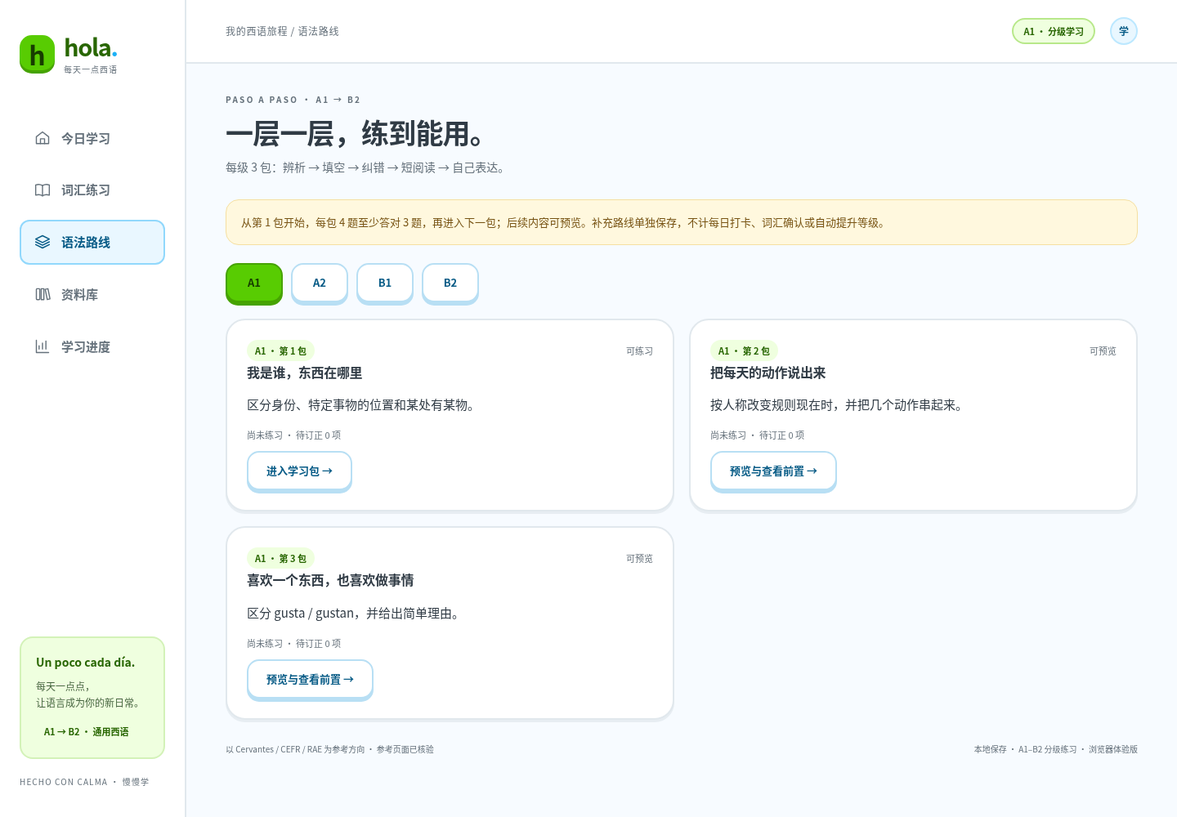
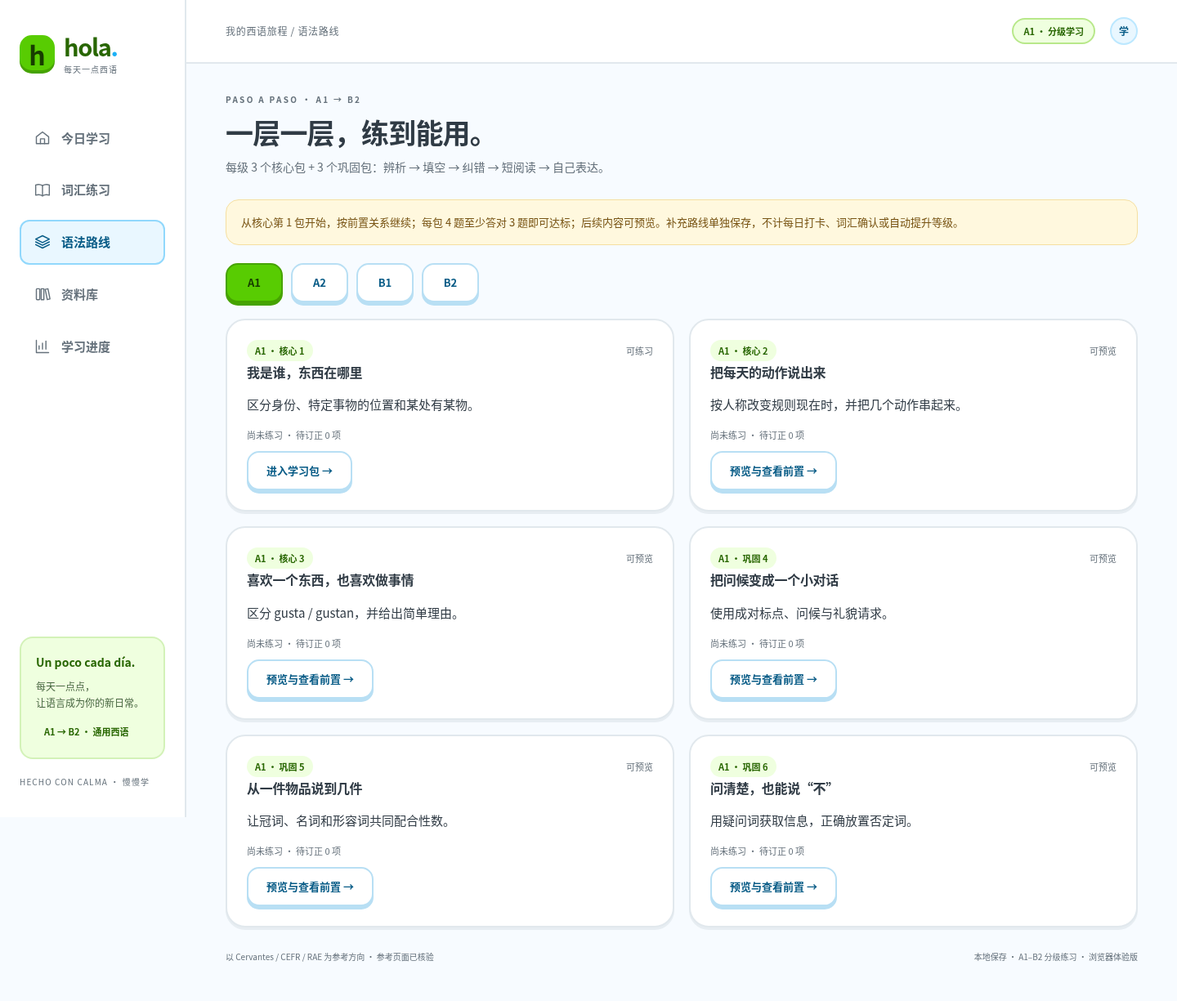
Expand every practice level with compatible consolidation branches

diff --git a/miniprogram/data/drill-extension.js b/miniprogram/data/drill-extension.js
@@ -1,0 +1,99 @@
+// 每级的巩固分支；显式前置关系保护首批 12 包的旧进度。
+module.exports = ({ choice, text }) => [
+  {
+    id:'a1-greetings',level:'A1',previousId:'a1-place',title:'把问候变成一个小对话',lessonIds:['g1'],goal:'使用成对标点、问候与礼貌请求。',recycled:['soy','café','gracias'],
+    rules:['直接问句通常使用 ¿ 和 ?：¿Cómo estás?。','请别人帮忙时可加入 por favor；道谢后常回应 de nada。','buenos días / buenas tardes / buenas noches 随时间与地区作息选择，不规定全球统一钟点。'],
+    examples:[['¡Hola! Un café, por favor.','你好！请来一杯咖啡。'],['Gracias. — De nada.','谢谢。——不客气。']],
+    reading:'Por la mañana Ana entra en una cafetería. Dice: «Buenos días. Un café, por favor». Después dice «Gracias». El camarero responde: «De nada».',glossary:'entra：走进；cafetería：咖啡馆；camarero：服务员；responde：回答。',
+    questions:[choice('早晨初次见面，常见问候是：',['Buenos días.','Buenas noches.','De nada.'],0,'Buenos días 是常见早晨问候；具体分界随作息与地区变化。'),text('只填礼貌短语：Un café, ___.','por favor','请求中加入 por favor。'),{...text('只补全成对的问号，写出整句：Cómo estás?','¿Cómo estás?','普通直接疑问句需要开头 ¿ 与结尾 ?；此题明确检查标点。'),preservePunctuation:true},choice('根据短文，服务员怎样回应道谢？',['De nada.','Buenos días.','Un café.'],0,'El camarero responde: De nada。')],
+    output:{prompt:'写 4 句咖啡馆小对话：问候、请求、道谢、回应。',starters:['Buenos días…','Un…, por favor.','Gracias.','De nada.'],rubric:['问候是否符合所设场景？','请求是否加入礼貌表达？','问句与感叹句标点是否成对？'],model:'Buenos días. Un café, por favor. Gracias. De nada.'}
+  },
+  {
+    id:'a1-agreement',level:'A1',previousId:'a1-greetings',title:'从一件物品说到几件',lessonIds:['g3'],goal:'让冠词、名词和形容词共同配合性数。',recycled:['libro','mesa','pequeño'],
+    rules:['la mesa pequeña → las mesas pequeñas，冠词、名词、形容词一起变复数。','libro 为阳性；agua 为阴性，单数紧接名词前使用 el，但形容词仍是阴性。','常见元音结尾词加 -s，常见辅音结尾词加 -es：ciudad → ciudades。'],
+    examples:[['Los libros son pequeños.','这些书很小。'],['El agua está fría.','水是冷的。']],
+    reading:'En mi casa hay una mesa pequeña y dos libros. Los libros son pequeños. Cerca de la mesa hay dos sillas. Las sillas son grandes.',glossary:'silla：椅子，阴性；cerca de：在……附近；grandes：大的，复数。',
+    questions:[choice('选择正确的阴性复数：',['las mesas pequeñas','los mesas pequeños','las mesa pequeñas'],0,'三个词都与阴性复数配合。'),text('只填 ciudad 的复数：Hay dos ___ pequeñas.','ciudades','ciudad 是阴性，辅音结尾加 -es：ciudades。'),text('只改冠词与形容词，写出整句：Las libros son pequeñas.','Los libros son pequeños.','libros 为阳性复数，用 los、pequeños。'),choice('根据短文，哪些物品很大？',['Las sillas.','Los libros.','La mesa.'],0,'短文明确说明 Las sillas son grandes。')],
+    output:{prompt:'写 3 句描述一个房间：一种单数物品、两种复数物品，加入大小形容词。',starters:['Hay una / un…','Los… son…','Las… son…'],rubric:['冠词与名词性数是否配合？','形容词是否配合名词？','是否准确区分一个与多个？'],model:'Hay una mesa pequeña. Los libros son pequeños. Las sillas son grandes.'}
+  },
+  {
+    id:'a1-questions',level:'A1',previousId:'a1-agreement',title:'问清楚，也能说“不”',lessonIds:['g6'],goal:'用疑问词获取信息，正确放置否定词。',recycled:['estudiar','casa','libro'],
+    rules:['询问地点用 dónde，询问原因用 por qué；保留书写重音。','回答原因常用 porque；它与疑问的 por qué 不同。','no 放在变位动词前：No estudio hoy。'],
+    examples:[['¿Dónde estudias? — Estudio en casa.','你在哪里学习？——我在家学习。'],['¿Por qué lees? — Porque me gusta.','你为什么阅读？——因为我喜欢。']],
+    reading:'Luis estudia en casa. Hoy no trabaja porque es domingo. Ana pregunta: «¿Qué lees?». Luis responde: «Leo un libro de español».',glossary:'domingo：周日；pregunta：她问；qué：什么；de español：关于西语的。',
+    questions:[choice('询问学习地点：¿___ estudias?',['Dónde','Quién','Cuándo'],0,'地点用 dónde；quién 问人，cuándo 问时间。'),text('只填疑问短语：¿___ estudias español?（为什么）','Por qué','por qué 分写，qué 带重音；回答原因通常用 porque。'),text('只改 no 的位置，写出整句：Hoy estudio no en casa.','Hoy no estudio en casa.','普通否定句中 no 放在变位动词 estudio 前。'),choice('根据短文，Luis 今天为什么不工作？',['Porque es domingo.','Porque Ana trabaja.','Porque no tiene un libro.'],0,'短文给出的原因是 es domingo。')],
+    output:{prompt:'写一个 4 句对话：一个地点问题及回答，再写一个原因问题及回答；回答中可加入否定。',starters:['¿Dónde…?','… en…','¿Por qué…?','Porque…'],rubric:['疑问词与想获取的信息是否对应？','por qué / porque 是否区分？','否定词和重音是否准确？'],model:'¿Dónde estudias? Estudio en casa. ¿Por qué no trabajas hoy? Porque es domingo.'}
+  },
+  {
+    id:'a2-routine',level:'A2',previousId:'a2-plans',title:'把起床到睡觉连成一天',lessonIds:['g10'],goal:'配合代词式动词的人称，并交代动作顺序。',recycled:['estudio','después','casa'],
+    rules:['levantarse：me levanto、te levantas、se levanta、nos levantamos。','acostarse 的部分现在时人称发生 o → ue：me acuesto；nos acostamos 不变。','antes de / después de 后接不定式：Después de comer, estudio。'],
+    examples:[['Me levanto a las siete.','我七点起床。'],['Después de comer, estudio en casa.','吃饭后我在家学习。']],
+    reading:'Ana se levanta a las siete. Después de ducharse, prepara el desayuno. Trabaja por la mañana. Por la noche lee y se acuesta a las once.',glossary:'ducharse：淋浴；prepara：准备；se acuesta：她上床睡觉；once：十一。',
+    questions:[choice('Yo ___ levanto temprano.',['me','se','te'],0,'yo 对应 me，动词为 levanto。'),text('只填 acostarse 的 yo 形式，包括代词：Yo ___ a las once.','me acuesto','yo 使用 me acuesto，保留代词并发生 o → ue。'),text('只改 comer 的形式，写出整句：Después de como, estudio.','Después de comer, estudio.','介词 de 后用不定式 comer。'),choice('根据短文，Ana 什么时候阅读？',['Por la noche.','Después de acostarse siempre.','A las siete de la mañana.'],0,'短文说 Por la noche lee。')],
+    output:{prompt:'用 4–5 句按顺序写自己的作息，包括起床、一个 después de 结构和睡觉。',starters:['Me levanto…','Después de…','Por la tarde…','Me acuesto…'],rubric:['代词与动词是否都配合主语？','de 后是否使用不定式？','时间顺序是否容易跟随？'],model:'Me levanto a las siete. Después de comer, estudio español. Por la tarde trabajo. Por la noche leo. Me acuesto a las once.'}
+  },
+  {
+    id:'a2-help',level:'A2',previousId:'a2-routine',title:'说明不适与需要',lessonIds:['g11'],goal:'用 doler 配合身体部位，并说明必要行动。',recycled:['necesitar','porque','descansar'],
+    rules:['me duele + 单数部位：Me duele la cabeza；me duelen + 复数部位：Me duelen los pies。','tener que + 不定式表示需要或义务：Tengo que descansar。','语言例句不是诊断或治疗建议；只练描述不适、提出需要。'],
+    examples:[['Me duele la cabeza.','我头痛。'],['Necesito pedir una cita.','我需要预约。']],
+    reading:'Luis tiene dolor de garganta. Llama al centro de salud para pedir una cita. Dice que necesita hablar con una médica. La persona que atiende le pregunta su nombre.',glossary:'garganta：喉咙；centro de salud：医疗中心；atiende：接待；cita：预约。',
+    questions:[choice('Me ___ los pies.',['duelen','duele','dolor'],0,'pies 是复数语法主语，使用 duelen。'),text('只填 doler 的对应形式：Me ___ la cabeza.','duele','cabeza 是单数，使用 duele。'),text('只改 descansar 的形式，写出整句：Tengo que descanso en casa.','Tengo que descansar en casa.','tener que 后接不定式 descansar。'),choice('根据短文，Luis 打电话的目的是什么？',['Pedir una cita.','Comprar una camisa.','Anunciar un examen.'],0,'短文明确说 para pedir una cita。')],
+    output:{prompt:'写一个 4 句预约对话：介绍自己、描述一种不适、说明需要、礼貌请求预约。可用虚构人物。',starters:['Soy…','Me duele / Me duelen…','Necesito…','¿Puedes…, por favor?'],rubric:['duele / duelen 是否与部位配合？','需要与请求是否说清楚？','是否避免把语言例句当成医疗建议？'],model:'Soy Luis. Me duele la garganta. Necesito hablar con una médica. ¿Puedes ayudarme a pedir una cita, por favor?'}
+  },
+  {
+    id:'a2-travel',level:'A2',previousId:'a2-help',title:'交代旅行前已经完成的事',lessonIds:['g12'],goal:'使用 haber + 过去分词说明经历或与现在有关的完成事件。',recycled:['comprar','visitar','billete'],
+    rules:['haber 现在时：he、has、ha、hemos、habéis、han，加过去分词。','规则分词：hablado、comido、vivido；常见不规则：escrito、visto、hecho。','复合过去时与简单过去时的使用受地区和语境影响；本包明确要求所给复合过去形式。'],
+    examples:[['He comprado un billete.','我已买了一张票。'],['Hemos escrito al hotel.','我们已给酒店写信。']],
+    reading:'Ana y Luis han reservado una habitación. Ana ha comprado los billetes y Luis ha escrito al hotel. Todavía no han preparado las maletas. Van a salir mañana.',glossary:'todavía no：还没有；maletas：行李箱；han reservado：他们已预订；van a salir：将出发。',
+    questions:[choice('Yo ___ reservado una habitación.',['he','ha','han'],0,'yo 对应 haber 的 he。'),text('只填 escribir 的过去分词：He ___ al hotel.','escrito','escribir 的不规则过去分词是 escrito。'),text('只改 llegar 的形式，写出整句：Hemos llegar al hotel.','Hemos llegado al hotel.','haber 后必须使用过去分词 llegado。'),choice('根据短文，他们哪件事还没有完成？',['Preparar las maletas.','Reservar una habitación.','Comprar los billetes.'],0,'Todavía no han preparado las maletas 明确表示尚未完成。')],
+    output:{prompt:'用 4 句写出行准备：两件已完成的事、一件未完成的事和出发安排。',starters:['He / Hemos…','También…','Todavía no…','Vamos a…'],rubric:['haber 与主语是否配合？','分词是否准确，尤其不规则形式？','是否区分已完成、未完成与计划？'],model:'Hemos reservado una habitación. He comprado los billetes. Todavía no hemos preparado las maletas. Vamos a salir mañana.'}
+  },
+  {
+    id:'b1-relative',level:'B1',previousId:'b1-opinion',title:'用关系从句补充信息',lessonIds:['g22'],goal:'用 que 与 donde 指清楚所谈对象，减少重复。',recycled:['curso','aprender','ciudad'],
+    rules:['que 可指代人或事物：El curso que hago es útil。','donde 用于地点：La ciudad donde vivo es tranquila。','先明确先行词，再补充从句；本包练已明确存在的对象。'],
+    examples:[['La profesora que me ayuda habla despacio.','帮助我的老师说得很慢。'],['La escuela donde estudio está cerca.','我学习的学校在附近。']],
+    reading:'Marta estudia en una escuela que ofrece cursos por la tarde. La profesora que la ayuda prepara ejercicios claros. La ciudad donde vive Marta tiene una biblioteca grande.',glossary:'ofrece：提供；claros：清楚的；biblioteca：图书馆；la ayuda：帮助她。',
+    questions:[choice('地点：La escuela ___ estudio está cerca.',['donde','que','quién'],0,'本题表示在学校学习，用地点关系词 donde。'),text('只填关系词：La profesora ___ me ayuda es amable.','que','que 指代先行词 profesora，在从句中作主语。'),text('用 que 合并成一句：Tengo un curso. El curso ofrece prácticas.','Tengo un curso que ofrece prácticas.','保留已存在的课程，用 que 接 ofrece 的信息，本句使用直陈式 ofrece。'),choice('根据短文，学校什么时候提供课程？',['Por la tarde.','Solo por la mañana.','Nunca.'],0,'第一句说 ofrece cursos por la tarde。')],
+    output:{prompt:'用 5 句介绍学校或城市：至少使用一次 que 和一次 donde，再给出自己的评价。',starters:['Estudio en…','La escuela que…','La ciudad donde…','Me gusta… porque…'],rubric:['关系词是否对应人 / 物或地点？','每个关系从句的先行词是否清楚？','是否减少了重复，而没有丢失信息？'],model:'Estudio en una escuela pequeña. La profesora que me ayuda habla despacio. La escuela ofrece cursos por la tarde. La ciudad donde vivo tiene una biblioteca. Me gusta estudiar allí porque puedo leer.'}
+  },
+  {
+    id:'b1-wishes',level:'B1',previousId:'b1-relative',title:'表达感受与希望',lessonIds:['g23'],goal:'正确使用情感结构和面向另一主语的希望。',recycled:['aconsejar','confianza','amiga'],
+    rules:['Me alegro de que + 虚拟式：Me alegro de que estés aquí，不能省掉 de。','对另一主语表达希望：Espero que llegues pronto。','同一主语可用不定式：Espero llegar pronto；不要机械地所有 espero 后都加 que。'],
+    examples:[['Me alegro de que estés aquí.','我很高兴你在这里。'],['Espero llegar pronto.','我希望自己早点到。']],
+    reading:'Ana escribe a su amiga: «Me alegro de que estés en nuestra ciudad. Espero que podamos estudiar juntas. Yo espero llegar a la biblioteca a las cinco». La amiga responde que también quiere estudiar.',glossary:'podamos：我们能够，虚拟式；juntas：一起，女性复数；a las cinco：五点。',
+    questions:[choice('Me alegro ___ que estés aquí.',['de','a','por'],0,'alegrarse de que 保留介词 de。'),text('只填 estar 的 tú 虚拟式：Me alegro de que ___ aquí.','estés','本情感从句用 estés，保留 é。'),text('只改希望结构，写出整句：Yo espero que llegar pronto.','Yo espero llegar pronto.','本题希望到达的人和主句主语都是 yo，用不定式 llegar。'),choice('根据短文，Ana 希望和朋友做什么？',['Estudiar juntas.','Salir de la ciudad enseguida.','Cancelar la visita a la biblioteca.'],0,'Espero que podamos estudiar juntas 说明希望一起学习。')],
+    output:{prompt:'写 5 句给同学的短消息：一项感受、对对方或双方的希望、自己的安排和一个具体约定。',starters:['Me alegro de que…','Espero que…','Yo espero…','Podemos…','¿Quedamos…?'],rubric:['de que 结构是否完整？','希望从句的主语和语气是否配合？','自己的希望能否用不定式清楚表达？'],model:'Me alegro de que estés aquí. Espero que podamos estudiar juntos. Yo espero llegar a las cinco. Podemos practicar español en la biblioteca. ¿Quedamos allí?'}
+  },
+  {
+    id:'b1-anterior',level:'B1',previousId:'b1-wishes',title:'讲清两件过去事情的先后',lessonIds:['g24'],goal:'使用过去完成时说明一个过去参照点之前的事件。',recycled:['viaje','cuando','experiencia'],
+    rules:['había / habías / habíamos / habían + 过去分词，表示相对于过去参照点的更早事件。','Cuando llegué, el tren ya había salido：离开早于到达。','过去完成时不是“非常久以前”的专用表达；关键是相对先后。'],
+    examples:[['Cuando llegué, el tren ya había salido.','我到达时，火车已经离开。'],['Expliqué que había perdido mi maleta.','我解释说此前丢了行李箱。']],
+    reading:'Cuando Luis llegó a la estación, el tren ya había salido. Había comprado el billete el día anterior. Después llamó a Ana y explicó lo que había pasado. Ana le ayudó a buscar otro tren.',glossary:'estación：车站；el día anterior：前一天；había pasado：此前发生了；buscar：寻找。',
+    questions:[choice('离开早于我到达：Cuando llegué, el tren ya ___ salido.',['había','ha','he'],0,'过去参照点 llegué 之前的事件，使用 había salido。'),text('只填 haber 的 nosotros 未完成过去时：Ya ___ comprado los billetes cuando llegamos.','habíamos','nosotros 对应 habíamos，重音不可省略。'),text('只改 salir 的形式，写出整句：El tren había salir antes de mi llegada.','El tren había salido antes de mi llegada.','haber 后接过去分词 salido。'),choice('根据短文，哪件事发生得最早？',['Comprar el billete.','Llamar a Ana.','Buscar otro tren con Ana.'],0,'票在前一天已经买好，早于到站与之后的电话。')],
+    output:{prompt:'用 5–6 句写一次误会或迟到：过去参照点、此前事件、发现问题、解释与解决。',starters:['Cuando llegué,…','Ya había…','Después…','Expliqué que…','Al final…'],rubric:['更早事件是否有明确的过去参照点？','haber 与分词是否构成完整结构？','解决过程是否与前面的事件衔接？'],model:'Cuando llegué, el tren ya había salido. Había comprado el billete el día anterior. Después llamé a una amiga. Expliqué que había llegado tarde. Ella me ayudó a buscar otro tren. Al final pude continuar el viaje.'}
+  },
+  {
+    id:'b2-specific',level:'B2',previousId:'b2-report',title:'区分已有对象与尚未找到的对象',lessonIds:['g25'],goal:'根据特指、寻找与否定存在的语境选择关系从句语气。',recycled:['curso','que','ofrecer'],
+    rules:['明确已有对象：Tengo un curso que ofrece prácticas。','寻找但尚未确定对象：Busco un curso que ofrezca prácticas。','No hay nadie que pueda ayudar 是典型否定存在语境；选择语气需看整段意思。'],
+    examples:[['Busco una profesora que tenga experiencia.','我在找一位有经验的老师，尚未确定对象。'],['Tengo una profesora que tiene experiencia.','我有一位经验丰富的老师。']],
+    reading:'Marta ya conoce un curso que ofrece prácticas. Su hermano todavía busca uno que tenga horario nocturno. No ha encontrado ninguno que cumpla sus requisitos. Marta le propone preguntar en otra escuela.',glossary:'nocturno：夜间的；requisitos：要求；cumpla：符合，虚拟式；ninguno：任何一个都没有。',
+    questions:[choice('尚未找到特定课程：Busco un curso que ___ prácticas.',['ofrezca','ofrece','ofrecer'],0,'在本题未确定的寻找语境中使用 ofrezca。'),text('只填 tener：Tengo una profesora que ___ experiencia.（明确已有）','tiene','本题作事实断言，明确已有老师，用 tiene。'),text('在“没有人能帮助”的语境，只改 poder：No hay nadie que puede ayudar.','No hay nadie que pueda ayudar.','典型否定存在从句用虚拟式 pueda。'),choice('根据短文，谁还没有找到符合要求的课程？',['El hermano de Marta.','Marta, que no conoce ningún curso.','La profesora de Marta.'],0,'hermano 仍在寻找；Marta 已认识一个提供实践的课程。')],
+    output:{prompt:'用 6 句比较一种已有资源与一种正在寻找的资源：现有优点、寻找条件、缺口和可执行办法。',starters:['Ya tengo… que…','Sin embargo, busco… que…','Necesito…','Todavía no…','Por eso…'],rubric:['是否明确区分已有与未确定对象？','关系从句语气是否符合语境？','需求和行动是否相互对应？'],model:'Tengo un curso que ofrece prácticas. Sin embargo, busco otro que tenga horario nocturno. Necesito estudiar después del trabajo. Todavía no he encontrado uno que cumpla mis requisitos. Por eso voy a preguntar en otra escuela. También compararé los horarios antes de decidir.'}
+  },
+  {
+    id:'b2-passive',level:'B2',previousId:'b2-specific',title:'把结果与信息处理过程说清楚',lessonIds:['g28'],goal:'区分 ser 被动、被动 se 与无人称 se。',recycled:['informe','resultados','según'],
+    rules:['ser + 过去分词，分词与主语配合：Las muestras fueron analizadas。','被动 se 的动词与主语配合：Se publicaron los resultados。','无人称 se + a + 人，典型单数：Se entrevistó a los participantes。不能只看到复数人名就把动词改复数。'],
+    examples:[['Los resultados fueron publicados.','结果被公布了。'],['Se entrevistó a los participantes.','对参与者进行了访谈。']],
+    reading:'Se entrevistó a veinte participantes. Después se analizaron las respuestas. Los resultados fueron publicados en un informe. El documento explica el método, pero no incluye los nombres de los participantes.',glossary:'entrevistó：访谈了；respuestas：回答；método：方法；incluye：包含。',
+    questions:[choice('被动 se：Se ___ los resultados ayer.',['publicaron','publicó','publicar'],0,'los resultados 为复数主语，被动 se 用 publicaron。'),text('只填 analizar 的配合分词：Las muestras fueron ___.','analizadas','阴性复数主语 muestras，分词 analizadas。'),text('按本题标准无人称结构，只改动词：Se entrevistaron a los participantes.','Se entrevistó a los participantes.','含 a 的人宾语无人称结构，本题要求第三人称单数 entrevistó。'),choice('根据短文，报告没有包含什么？',['Los nombres de los participantes.','El método.','Los resultados.'],0,'最后一句明确没有参与者姓名。')],
+    output:{prompt:'写 6 句虚构项目摘要：说明信息如何收集、处理、发布，列出结论与一个限制。',starters:['Se entrevistó a…','Se analizaron…','Los resultados fueron…','El informe indica…','Sin embargo,…'],rubric:['是否区分被动主语与人宾语？','分词和动词是否与相应主语配合？','过程、结论与限制是否分别说清楚？'],model:'Se entrevistó a diez participantes. Después se analizaron sus respuestas. Los resultados fueron publicados en un informe. El documento explica el método. Sin embargo, la muestra es pequeña. Por lo tanto, necesitamos más datos antes de generalizar.'}
+  },
+  {
+    id:'b2-evaluation',level:'B2',previousId:'b2-passive',title:'用评价与证据收束提案',lessonIds:['g30','g31','g32'],goal:'提出优先事项，区分理由与结论，并回应限制。',recycled:['aunque','por lo tanto','proyecto'],
+    rules:['lo + 形容词可表达抽象性质：Lo importante es escuchar。','评价另一主语的从句：Es importante que haya respeto。','por lo tanto 应引出有依据的结论；sin embargo 引出限制或转折，不等于结论已经得到证明。'],
+    examples:[['Lo importante es evaluar los resultados.','重要的是评估结果。'],['Es importante que todos participen.','让所有人参与很重要。']],
+    reading:'El equipo propone abrir una biblioteca. Lo importante es que el barrio pueda usarla. El proyecto requiere dinero; sin embargo, puede empezar con un espacio pequeño. Por lo tanto, el equipo recomienda una prueba y una evaluación antes de ampliarlo.',glossary:'abrir：开设；pueda usarla：能够使用它；ampliarlo：扩大它；espacio：空间。',
+    questions:[choice('表达抽象优先事项：___ importante es escuchar.',['Lo','El','La'],0,'lo + 形容词名词化抽象性质。'),text('只填 haber 的现在虚拟式：Es importante que ___ respeto.','haya','评价从句使用 haya；此处 haber 表存在，不随名词数量变。'),text('只改参加的动词，写出整句：Es importante que todos participa.','Es importante que todos participen.','评价从句用虚拟式，todos 对应复数 participen。'),choice('根据短文，团队的建议是什么？',['Probar y evaluar antes de ampliar.','Ampliar sin evaluar.', 'Afirmar que no hace falta dinero.'],0,'建议先试行和评估，再扩大；仍承认费用限制。')],
+    output:{prompt:'写 7–8 句项目提案：需求、优先事项、两条理由、一个限制、试行方案、评估和结论。',starters:['Proponemos…','Lo importante es…','Es importante que…','Además,…','Sin embargo,…','Por lo tanto,…'],rubric:['评价结构是否完整并配合语气？','结论是否由真实或明确标为假设的理由支撑？','是否给出可操作的试行和评估办法？'],model:'Proponemos abrir una biblioteca pequeña. Lo importante es escuchar al barrio. Es importante que todos participen. Además, necesitamos materiales útiles. Sin embargo, el presupuesto es limitado. Podemos empezar con una prueba de un mes. Evaluaremos el uso y las opiniones. Por lo tanto, ampliaremos el proyecto solo si los resultados lo justifican.'}
+  }
+];

diff --git a/web/app.js b/web/app.js
@@ -96,7 +96,7 @@
   }
   function drillsPage() {
     const packs=L.drillProgress(state).filter(p=>p.level===drillLevel);
-    return heading('PASO A PASO · A1 → B2','一层一层，练到能用。','每级 3 包：辨析 → 填空 → 纠错 → 短阅读 → 自己表达。')+`<div class="notice">从第 1 包开始，每包 4 题至少答对 3 题，再进入下一包；后续内容可预览。补充路线单独保存，不计每日打卡、词汇确认或自动提升等级。</div><div class="level-tabs" role="group" aria-label="分级练习等级">${['A1','A2','B1','B2'].map(level=>btn(level,'drills-level',`data-level="${level}" aria-pressed="${level===drillLevel}"`,level===drillLevel?'':'secondary')).join('')}</div><div class="lesson-grid">${packs.map(p=>`<article class="card drill-card ${p.unlocked?'':'locked'}"><div class="card-head">${pill(`${p.level} · 第 ${p.number} 包`)}<span class="tiny">${p.unlocked?'可练习':'可预览'}</span></div><h2>${esc(p.title)}</h2><p>${esc(p.goal)}</p><p class="tiny">${p.bestScore===null?'尚未练习':`最佳正确率 ${p.bestScore}%`} · 待订正 ${p.mistakes.length} 项</p>${p.mistakes.map(q=>`<p class="tiny">${esc(q.title)} · 上次：${esc(q.previousAnswer)}</p>`).join('')}${btn(p.unlocked?'进入学习包 →':'预览与查看前置 →','drill',`data-id="${p.id}"`,'secondary')}</article>`).join('')}</div>`;
+    return heading('PASO A PASO · A1 → B2','一层一层，练到能用。','每级 3 个核心包 + 3 个巩固包：辨析 → 填空 → 纠错 → 短阅读 → 自己表达。')+`<div class="notice">从核心第 1 包开始，按前置关系继续；每包 4 题至少答对 3 题即可达标；后续内容可预览。补充路线单独保存，不计每日打卡、词汇确认或自动提升等级。</div><div class="level-tabs" role="group" aria-label="分级练习等级">${['A1','A2','B1','B2'].map(level=>btn(level,'drills-level',`data-level="${level}" aria-pressed="${level===drillLevel}"`,level===drillLevel?'':'secondary')).join('')}</div><div class="lesson-grid">${packs.map(p=>`<article class="card drill-card ${p.unlocked?'':'locked'}"><div class="card-head">${pill(`${p.level} · ${p.branch==='core'?'核心':'巩固'} ${p.levelNumber}`)}<span class="tiny">${p.unlocked?'可练习':'可预览'}</span></div><h2>${esc(p.title)}</h2><p>${esc(p.goal)}</p><p class="tiny">${p.bestScore===null?'尚未练习':`最佳正确率 ${p.bestScore}%`} · 待订正 ${p.mistakes.length} 项</p>${p.mistakes.map(q=>`<p class="tiny">${esc(q.title)} · 上次：${esc(q.previousAnswer)}</p>`).join('')}${btn(p.unlocked?'进入学习包 →':'预览与查看前置 →','drill',`data-id="${p.id}"`,'secondary')}</article>`).join('')}</div>`;
   }
   function drillOutput(p, unlocked) {
     const e=drillEditor;
@@ -107,9 +107,9 @@
     if(!p)return '<div class="card empty">没有找到练习包。<a href="#drills">返回分级练习</a></div>';
     if(!drillEditor||drillEditor.id!==id){const d=state.drillDrafts[id];drillEditor={id,text:d?d.text:'',saved:!!d,dirty:false,showModel:false};}
     const unlocked=L.drillUnlocked(state,id),previous=L.drillPacks.find(d=>d.id===p.previousId);
-    const head=`${btn(`${icon('back')} 返回分级练习`,'drills','','back')}${heading(`${p.level} · 第 ${p.number} 包`,p.title,p.goal)}`;
-    if(!unlocked||!drillQuiz||drillQuiz.id!==id)return `<section class="reading">${head}${unlocked?'':`<div class="notice">先从第 1 包按顺序练习，前一包“${esc(previous.title)}”最佳正确率至少 75%。${btn('查看前一包','drill',`data-id="${p.previousId}"`,'secondary')}</div>`}<div class="card"><h2>先理解规则</h2><ol class="rules">${p.rules.map(r=>`<li>${esc(r)}</li>`).join('')}</ol><p class="tiny">复用旧词：${esc(p.recycled.join(' · '))}</p></div>${p.examples.map(([es,zh])=>`<div class="card"><p class="example" lang="es">${esc(es)}</p><p>${esc(zh)}</p></div>`).join('')}<div class="card"><h2>先读一小段</h2><p class="example" lang="es">${esc(p.reading)}</p><p class="tiny">词语提示：${esc(p.glossary)}</p></div>${btn('开始四步练习 →','drill-begin',`data-id="${id}" ${unlocked?'':'disabled'}`)}${drillOutput(p,unlocked)}<div class="card"><h2>课程与依据</h2>${p.lessonIds.map(id=>`<p><a href="#lesson/${id}">${esc(C.lessons.find(l=>l.id===id).title)} ↗</a></p>`).join('')}${[...new Map(p.references.map(r=>[r.sourceId+r.section,r])).values()].map(r=>{const s=C.sources.find(s=>s.id===r.sourceId);return `<p class="tiny"><a href="${esc(s.url)}" target="_blank" rel="noopener noreferrer">${esc(s.title)} ↗</a><br>${esc(r.section)}</p>`;}).join('')}<p class="tiny">新增短文、题目与范文为原创，待教师审稿；等级是本站练习顺序。</p></div></section>`;
-    if(drillQuiz.result){const r=drillQuiz.result,next=L.drillPacks[p.number];return `<section class="reading">${head}<div class="card result-card"><div class="result-score">${r.score}%</div><h2>${r.passed?'基础练习已达标':'再巩固一次'}</h2><p>答对 ${r.correct} / ${r.total} 题；错项保留在列表，重新练习答对后移除。</p><p class="tiny">75% 是本包继续练习的门槛，不能证明语言等级；个人表达需自行检查与反馈。</p><div class="actions">${btn('写自己的表达 →','drill-output')}${btn('重练四步练习','drill-begin',`data-id="${id}"`,'secondary')}${r.passed&&next?btn('继续下一包 →','drill',`data-id="${next.id}"`,'secondary'):''}</div></div></section>`;}
+    const head=`${btn(`${icon('back')} 返回分级练习`,'drills','','back')}${heading(`${p.level} · ${p.branch==='core'?'核心':'巩固'} ${p.levelNumber}`,p.title,p.goal)}`;
+    if(!unlocked||!drillQuiz||drillQuiz.id!==id)return `<section class="reading">${head}${unlocked?'':`<div class="notice">按前置关系练习，前一包“${esc(previous.title)}”最佳正确率至少 75%。${btn('查看前一包','drill',`data-id="${p.previousId}"`,'secondary')}</div>`}<div class="card"><h2>先理解规则</h2><ol class="rules">${p.rules.map(r=>`<li>${esc(r)}</li>`).join('')}</ol><p class="tiny">复用旧词：${esc(p.recycled.join(' · '))}</p></div>${p.examples.map(([es,zh])=>`<div class="card"><p class="example" lang="es">${esc(es)}</p><p>${esc(zh)}</p></div>`).join('')}<div class="card"><h2>先读一小段</h2><p class="example" lang="es">${esc(p.reading)}</p><p class="tiny">词语提示：${esc(p.glossary)}</p></div>${btn('开始四步练习 →','drill-begin',`data-id="${id}" ${unlocked?'':'disabled'}`)}${drillOutput(p,unlocked)}<div class="card"><h2>课程与依据</h2>${p.lessonIds.map(id=>`<p><a href="#lesson/${id}">${esc(C.lessons.find(l=>l.id===id).title)} ↗</a></p>`).join('')}${[...new Map(p.references.map(r=>[r.sourceId+r.section,r])).values()].map(r=>{const s=C.sources.find(s=>s.id===r.sourceId);return `<p class="tiny"><a href="${esc(s.url)}" target="_blank" rel="noopener noreferrer">${esc(s.title)} ↗</a><br>${esc(r.section)}</p>`;}).join('')}<p class="tiny">新增短文、题目与范文为原创，待教师审稿；等级是本站练习顺序。</p></div></section>`;
+    if(drillQuiz.result){const r=drillQuiz.result,next=L.nextDrillPack(state,id);return `<section class="reading">${head}<div class="card result-card"><div class="result-score">${r.score}%</div><h2>${r.passed?'基础练习已达标':'再巩固一次'}</h2><p>答对 ${r.correct} / ${r.total} 题；错项保留在列表，重新练习答对后移除。</p><p class="tiny">75% 是本包继续练习的门槛，不能证明语言等级；个人表达需自行检查与反馈。</p><div class="actions">${btn('写自己的表达 →','drill-output')}${btn('重练四步练习','drill-begin',`data-id="${id}"`,'secondary')}${r.passed&&next?btn('继续下一包 →','drill',`data-id="${next.id}"`,'secondary'):''}</div></div></section>`;}
     const q=p.questions[drillQuiz.index],f=drillQuiz.feedback;
     return `<section class="reading">${head}${pill(`${drillQuiz.index+1} / 4`)}<h2 class="question-title">${esc(q.title)}</h2>${drillQuiz.index===3?`<div class="card"><p class="example" lang="es">${esc(p.reading)}</p><p class="tiny">${esc(p.glossary)}</p></div>`:''}<p>${esc(q.prompt)}</p>${q.kind==='choice'?q.options.map(o=>`<button class="choice ${f&&q.answers.includes(o)?'correct':f&&o===drillQuiz.input?'wrong':''}" data-action="drill-answer" data-answer="${esc(o)}" ${f?'disabled':''}>${esc(o)}</button>`).join(''):`<label for="drill-answer">西语答案</label><input id="drill-answer" class="search-input spelling-input" value="${esc(drillQuiz.input)}" maxlength="500" autocomplete="off" autocapitalize="off" spellcheck="false" ${f?'disabled':''}/><div class="accent-buttons">${['á','é','í','ó','ú','ü','ñ'].map(c=>`<button data-action="drill-accent" data-char="${c}" aria-label="添加 ${c}" ${f?'disabled':''}>${c}</button>`).join('')}</div><p class="tiny">重音与 ñ 要准确；本题只核对指定词形和改写。</p>${f?'':btn('检查答案','drill-submit')}`}${f?`<div class="feedback" role="status"><strong>${f.correct?'✓ 答对了':'再看一下语境和词形'}</strong><p lang="es">参考答案：${esc(f.answer)}</p><p>${esc(f.explanation)}</p></div>${btn(drillQuiz.index===3?'保存并查看结果':'下一步 →','drill-next')}`:''}</section>`;
   }
@@ -148,7 +148,7 @@
   }
   function grammarPage() {
     const levels=L.levelProgress(state), active=levels.find(l=>l.id===grammarLevel);
-    return heading('PASO A PASO','从一句话，到一个世界。','A1 → A2 → B1 → B2 · 32 单元 · 320 词条 · 128 道语法题') + `<div class="card beginner-start"><h2>从规则到真实表达</h2><p>每级三包，复用旧知识，逐步增加语境与篇幅。</p>${btn('A1 → B2 递进练习 →','drills')}</div><div class="level-tabs" role="group" aria-label="分级课程">${levels.map(l=>btn(l.id,'grammar-level',`data-level="${l.id}" aria-pressed="${grammarLevel===l.id}"`,grammarLevel===l.id?'':'secondary')).join('')}</div><div class="card level-overview"><h2>${active.id} · ${esc(active.title)}</h2><p>${esc(active.goal)}</p><p class="tiny">词汇 ${active.learned} / ${active.total} · 完成 ${active.completed} / ${active.unitTotal} 单元 · 输出形式完成 ${active.expressions} 次</p><p class="tiny">表达目标：${esc(active.target)}</p></div><div class="notice">前一单元至少 6 个词完成记忆确认，且语法达 75%，解锁下一单元。每单元都有表达任务。课内 320 张词卡配有原创例句；扩展词库提供 6,500 个去重条目。阶段编排供练习使用，单元完成不代表通过等级考试。<p><a href="#bank">进入 6500 词库 →</a></p></div><div class="lesson-grid">${C.units.filter(u=>u.levelCode===grammarLevel).map(u => { const p=L.unitProgress(state,u.id); const unlocked=L.isUnlocked(state,u.id); const lesson=C.lessons.find(l=>l.unitId===u.id), task=C.tasks.find(t=>t.unitId===u.id); return `<article class="card unit-card ${unlocked?'':'locked'}"><div class="card-head"><span class="eyebrow">${u.levelCode} · UNIDAD ${u.number}</span>${pill(p.complete ? '已完成 ✓' : unlocked ? '可学习' : '待解锁')}</div><h2>${esc(u.title)}</h2><p>${esc(u.goal)}</p>${meter(percent(p.learned,p.total))}<div class="tiny">已学习 ${p.learned} / ${p.total} · 记忆确认 ${p.ready} / ${p.total} · 语法${p.passed?'已达标':'待练习'}</div><div class="actions">${btn(unlocked ? '进入课程 →' : '查看解锁条件','lesson',`data-id="${lesson.id}"`,'small secondary')}${btn('词汇串联 →','expression',`data-id="${task.id}"`,'small ghost')}</div></article>`; }).join('')}</div><div class="card"><h2>综合任务：给城市写一份学习提案</h2><p>跨 A1–B2 复用词汇，把背景、目标、措施、局限和结论写成一篇文字。</p>${btn(L.expressionUnlocked(state,'final')?'开始综合任务 →':'预览最终任务 →','expression','data-id="final"','secondary')}</div>`;
+    return heading('PASO A PASO','从一句话，到一个世界。','A1 → A2 → B1 → B2 · 32 单元 · 320 词条 · 128 道语法题') + `<div class="card beginner-start"><h2>从规则到真实表达</h2><p>每级六包，复用旧知识，逐步增加语境与篇幅。</p>${btn('A1 → B2 递进练习 →','drills')}</div><div class="level-tabs" role="group" aria-label="分级课程">${levels.map(l=>btn(l.id,'grammar-level',`data-level="${l.id}" aria-pressed="${grammarLevel===l.id}"`,grammarLevel===l.id?'':'secondary')).join('')}</div><div class="card level-overview"><h2>${active.id} · ${esc(active.title)}</h2><p>${esc(active.goal)}</p><p class="tiny">词汇 ${active.learned} / ${active.total} · 完成 ${active.completed} / ${active.unitTotal} 单元 · 输出形式完成 ${active.expressions} 次</p><p class="tiny">表达目标：${esc(active.target)}</p></div><div class="notice">前一单元至少 6 个词完成记忆确认，且语法达 75%，解锁下一单元。每单元都有表达任务。课内 320 张词卡配有原创例句；扩展词库提供 6,500 个去重条目。阶段编排供练习使用，单元完成不代表通过等级考试。<p><a href="#bank">进入 6500 词库 →</a></p></div><div class="lesson-grid">${C.units.filter(u=>u.levelCode===grammarLevel).map(u => { const p=L.unitProgress(state,u.id); const unlocked=L.isUnlocked(state,u.id); const lesson=C.lessons.find(l=>l.unitId===u.id), task=C.tasks.find(t=>t.unitId===u.id); return `<article class="card unit-card ${unlocked?'':'locked'}"><div class="card-head"><span class="eyebrow">${u.levelCode} · UNIDAD ${u.number}</span>${pill(p.complete ? '已完成 ✓' : unlocked ? '可学习' : '待解锁')}</div><h2>${esc(u.title)}</h2><p>${esc(u.goal)}</p>${meter(percent(p.learned,p.total))}<div class="tiny">已学习 ${p.learned} / ${p.total} · 记忆确认 ${p.ready} / ${p.total} · 语法${p.passed?'已达标':'待练习'}</div><div class="actions">${btn(unlocked ? '进入课程 →' : '查看解锁条件','lesson',`data-id="${lesson.id}"`,'small secondary')}${btn('词汇串联 →','expression',`data-id="${task.id}"`,'small ghost')}</div></article>`; }).join('')}</div><div class="card"><h2>综合任务：给城市写一份学习提案</h2><p>跨 A1–B2 复用词汇，把背景、目标、措施、局限和结论写成一篇文字。</p>${btn(L.expressionUnlocked(state,'final')?'开始综合任务 →':'预览最终任务 →','expression','data-id="final"','secondary')}</div>`;
   }
   function expressionPage(id) {
     const task=C.tasks.find(t=>t.id===id);

diff --git a/miniprogram/lib/drills.js b/miniprogram/lib/drills.js
@@ -1,9 +1,25 @@
 const drillPacks = require('../data/drills');
 const index = new Map(drillPacks.map(p => [p.id, p]));
-const normalize = text => text.normalize('NFC').trim().toLowerCase().replace(/\s+/g, ' ').replace(/^[¿¡]+/, '').replace(/[.!?。！？]+$/, '').trim();
+const normalize = (text, preservePunctuation = false) => {
+  const clean = text.normalize('NFC').trim().toLowerCase().replace(/\s+/g, ' ');
+  return preservePunctuation ? clean : clean.replace(/^[¿¡]+/, '').replace(/[.!?。！？]+$/, '').trim();
+};
 function drillUnlocked(state, id) {
-  const position = drillPacks.findIndex(p => p.id === id);
-  return position >= 0 && drillPacks.slice(0, position).every(p => state.drills[p.id] && state.drills[p.id].bestScore >= 75);
+  let pack = index.get(id);
+  if (!pack) return false;
+  const seen = new Set([id]);
+  while (pack.previousId) {
+    if (seen.has(pack.previousId)) return false;
+    seen.add(pack.previousId);
+    const previous = index.get(pack.previousId), result = state.drills[pack.previousId];
+    if (!previous || !result || result.bestScore < 75) return false;
+    pack = previous;
+  }
+  return true;
+}
+function nextDrillPack(state, id) {
+  const unfinished = p => drillUnlocked(state, p.id) && (!state.drills[p.id] || state.drills[p.id].bestScore < 75);
+  return drillPacks.find(p => p.previousId === id && unfinished(p)) || drillPacks.find(unfinished) || null;
 }
 function drillProgress(state) {
   return drillPacks.map(p => ({ ...p, unlocked: drillUnlocked(state, p.id), bestScore: state.drills[p.id] ? state.drills[p.id].bestScore : null,
@@ -12,7 +28,7 @@ function drillProgress(state) {
 function evaluateDrillAnswer(id, position, answer) {
   const pack = index.get(id), q = pack && pack.questions[position];
   if (!q || !Number.isInteger(position) || typeof answer !== 'string' || !answer.trim() || answer.length > 500) throw new Error('请填写本题答案');
-  return { correct: q.answers.some(a => normalize(a) === normalize(answer)), answer: q.answers.join(' / '), explanation: q.explanation };
+  return { correct: q.answers.some(a => normalize(a, q.preservePunctuation) === normalize(answer, q.preservePunctuation)), answer: q.answers.join(' / '), explanation: q.explanation };
 }
 function gradeDrill(state, id, answers) {
   const pack = index.get(id);
@@ -45,4 +61,4 @@ function restoreDrills(raw) {
   }
   return { drills, drillMistakes, drillDrafts };
 }
-module.exports = { drillPacks, drillUnlocked, drillProgress, evaluateDrillAnswer, gradeDrill, saveDrillDraft, restoreDrills };
+module.exports = { drillPacks, drillUnlocked, nextDrillPack, drillProgress, evaluateDrillAnswer, gradeDrill, saveDrillDraft, restoreDrills };

diff --git a/scripts/build-web.js b/scripts/build-web.js
@@ -5,7 +5,7 @@ function build() {
   const output = path.join(root, 'dist');
   fs.mkdirSync(output, { recursive: true });
   for (const name of ['index.html', 'styles.css', 'app.js']) fs.copyFileSync(path.join(root, 'web', name), path.join(output, name));
-  const modules = ['data/sources', 'data/vocabulary-review', 'data/course-extension', 'data/expression-tasks', 'data/lexicon/entries', 'data/lexicon/index', 'data/lexicon/tasks', 'data/course', 'data/foundations', 'data/year-plan', 'data/noun-practice', 'data/drills', 'lib/journey', 'lib/nouns', 'lib/drills', 'lib/learning'];
+  const modules = ['data/sources', 'data/vocabulary-review', 'data/course-extension', 'data/expression-tasks', 'data/lexicon/entries', 'data/lexicon/index', 'data/lexicon/tasks', 'data/course', 'data/foundations', 'data/year-plan', 'data/noun-practice', 'data/drill-extension', 'data/drills', 'lib/journey', 'lib/nouns', 'lib/drills', 'lib/learning'];
   const definitions = modules.map(id => `${JSON.stringify(id)}: function(module, exports, require) {\n${fs.readFileSync(path.join(root, 'miniprogram', `${id}.js`), 'utf8')}\n}`).join(',\n');
   const bundle = `(function(){'use strict'; const modules={${definitions}}; const cache={}; function load(id){ if(cache[id])return cache[id].exports; const module=cache[id]={exports:{}}; modules[id](module,module.exports,function(relative){const parts=id.split('/');parts.pop();for(const p of relative.split('/')){if(p==='..')parts.pop();else if(p!=='.')parts.push(p);}return load(parts.join('/'));});return module.exports;} window.HolaLearning=load('lib/learning');})();\n`;
   fs.writeFileSync(path.join(output, 'learning.bundle.js'), bundle);

diff --git a/miniprogram/data/drills.js b/miniprogram/data/drills.js
@@ -185,8 +185,10 @@ const packs = [
     output: { prompt: '写 6–8 句简短信息摘要：标明谁在何时说了什么，注明你的转述日期，区分计划、已核实事实和未知事项。可使用虚构场景。', starters: ['El lunes… dijo: «…».', 'El miércoles,…', 'Según…', 'Había anunciado que…', 'No sabemos si…', 'Por lo tanto,…'], rubric: ['原话与转述的时间参照是否一致？', '是否区分说过 / 计划 / 已完成？', '结论是否保留必要的不确定性？'], model: 'El lunes Ana dijo: «Presentaré el informe mañana». El miércoles Luis habló del anuncio. Según Luis, Ana había anunciado que presentaría el informe al día siguiente. Ese día era el martes. No sabemos si lo presentó. Por lo tanto, necesitamos confirmar el resultado antes de publicar la noticia.' }
   }
 ];
+packs.push(...require('./drill-extension')({ choice, text }));
+const levelNumbers = {};
 const labels = ['1 · 辨析', '2 · 填空', '3 · 纠错', '4 · 短阅读'];
-module.exports = packs.map((p, i) => ({ ...p, number: i + 1, previousId: i ? packs[i - 1].id : null,
+module.exports = packs.map((p, i) => ({ ...p, number: i + 1, levelNumber: levelNumbers[p.level] = (levelNumbers[p.level] || 0) + 1, branch: i < 12 ? 'core' : 'extension', previousId: p.previousId || (i ? packs[i - 1].id : null),
   references: p.lessonIds.flatMap(id => course.lessons.find(l => l.id === id).references),
   questions: p.questions.map((q, j) => ({ ...q, id: `${p.id}-q${j + 1}`, title: labels[j] }))
 }));

diff --git a/miniprogram/pages/drills/index.js b/miniprogram/pages/drills/index.js
@@ -35,7 +35,7 @@ Page({
     if (!L.drillUnlocked(S.load(), this.pack.id)) return wx.showToast({ title: '请先完成前面的练习包', icon: 'none' });
     if (this.index === this.pack.questions.length - 1) {
       const result = S.commit(s => L.gradeDrill(s, this.pack.id, this.answers));
-      if (result) { this.setData({ phase: 'result', result }); this.refresh(); }
+      if (result) { this.setData({ phase: 'result', result, nextPack: L.nextDrillPack(S.load(), this.pack.id) }); this.refresh(); }
       return;
     }
     this.index++;
@@ -53,7 +53,7 @@ Page({
   },
   output() { this.setData({ phase: 'read' }); },
   menu() { this.setData({ phase: 'menu' }); this.refresh(); },
-  continuePack() { const next = L.drillPacks[this.pack.number]; if (next) this.open({ currentTarget: { dataset: { id: next.id } } }); },
+  continuePack() { const next = L.nextDrillPack(S.load(), this.pack.id); if (next) this.open({ currentTarget: { dataset: { id: next.id } } }); },
   previous() { if (this.pack.previousId) this.open({ currentTarget: { dataset: { id: this.pack.previousId } } }); },
   copy(e) { wx.setClipboardData({ data: e.currentTarget.dataset.url }); },
   home() { wx.switchTab({ url: '/pages/today/index' }); }

diff --git a/docs/PROGRESSIVE_PRACTICE.md b/docs/PROGRESSIVE_PRACTICE.md
@@ -1,6 +1,6 @@
-# A1–B2 递进练习（首批）
+# A1–B2 递进练习（核心与巩固）
 
-建设日期：2026-10-13。每级 3 包，共 12 包、48 道受控题、12 篇原创短阅读和 12 项个人表达任务。它是一条补充训练路线，未覆盖各级全部能力要求；现有 32 单元和 6500 词库继续按原规则学习。
+建设日期：2026-10-13。每级 3 个核心包 + 3 个巩固包，共 24 包、96 道受控题、24 篇原创短阅读和 24 项个人表达任务。它是一条补充训练路线，未覆盖各级全部能力要求；现有 32 单元和 6500 词库继续按原规则学习。
 
 | 层级 | 包 ID | 核心任务 | 配套课程 |
 | --- | --- | --- | --- |
@@ -17,6 +17,27 @@
 | B2 | b2-hypothesis | si + 未完成过去虚拟式与条件式，比较理想与现实方案 | g26 / g19 |
 | B2 | b2-report | 过去转述、跨日时间参照，区分计划与已核实事实 | g29 / g31 |
 
+## 新增巩固分支
+
+原有 12 个核心包的 ID、题 ID 和前置链保持不变；新增包通过显式前置 ID 连接，旧记录不会因插入新题被锁回。菜单按每级 1–6 编排，标出核心与巩固；达标后优先推荐未完成的直接后继，再建议其他已经开放的包。
+
+| 层级 | 包 ID | 主题 | 前置包 | 配套课 |
+| --- | --- | --- | --- | --- |
+| A1 | a1-greetings | 问候、礼貌与成对标点 | a1-place | g1 |
+| A1 | a1-agreement | 名词冠词与性数配合 | a1-greetings | g3 |
+| A1 | a1-questions | 疑问与否定 | a1-agreement | g6 |
+| A2 | a2-routine | 代词式动词与作息 | a2-plans | g10 |
+| A2 | a2-help | 描述不适与预约需要 | a2-routine | g11 |
+| A2 | a2-travel | 复合过去时与出行准备 | a2-help | g12 |
+| B1 | b1-relative | que / donde 关系从句 | b1-opinion | g22 |
+| B1 | b1-wishes | 情感与愿望 | b1-relative | g23 |
+| B1 | b1-anterior | 过去事件的相对先后 | b1-wishes | g24 |
+| B2 | b2-specific | 特指与未确定对象 | b2-report | g25 |
+| B2 | b2-passive | 被动与无人称表达 | b2-specific | g28 |
+| B2 | b2-evaluation | 评价与提案结论 | b2-passive | g30 / g31 / g32 |
+
+两个分支的配套课 ID 合计涉及现有全部 32 课；这表示主题已有配套练习，不代表各课或 CEFR 四技能已完整覆盖。标点题显式保留并检查成对标点，其余题按公开的输入容忍范围核对。
+
 ## 每包怎么练
 
 1. 读中文规则、双语例句和复用词，先说出句子的意思。
@@ -26,7 +47,7 @@
 5. 完成四题后保存结果，再按句型起点写自己的表达。A1 约 3 句、A2 约 4 句、B1 约 5 句、B2 约 6–8 句，逐步增加理由、语境和信息关系。
 6. 保存草稿后可对照原创范文；按三个自查问题修改自己的内容，再保存。建议请教师或同伴给出真实反馈。
 
-每包四题至少答对三题（75%）后继续下一包；各级内容均可预览。开放状态使用所有前置包的历史最佳分，之后遗忘或退步不会锁回已经开放的包，但新的错项仍会留下。个人表达不自动评分，保存草稿也不会开放下一包。路线独立于主课程的词汇确认、单元开放和每日打卡。
+每包四题至少答对三题（75%）后继续满足前置条件的包；各级内容均可预览。开放状态使用沿 previousId 回溯的全部前置包历史最佳分，之后遗忘或退步不会锁回已经开放的包，但新的错项仍会留下。个人表达不自动评分，保存草稿也不会开放下一包。路线独立于主课程的词汇确认、单元开放和每日打卡。
 
 ## 内容边界与依据
 

diff --git a/README.md b/README.md
@@ -10,7 +10,7 @@
 
 - **四步入门**：发音、重音、名词阴阳性、冠词/名词/形容词配合，4 个 5–6 分钟微课与 16 道规则练习；可反复巩固，单独保存最佳分。
 - **A1 名词三步练习**：首批 8 个常用名词，补充冠词、阴阳性、复数与短语；24 道“选冠词 → 改形容词 → 补完整句”练习。逐题解析、重音输入、最佳正确率和待订正项独立保存，可反复巩固。
-- **A1–B2 递进练习**：每级 3 包，共 12 包、48 道辨析 / 填空 / 纠错 / 阅读题、12 篇原创短阅读与 12 项个人表达任务。前一包最佳正确率至少 75% 后继续下一包，保留错项、草稿与参考范文，逐步复用旧知识。
+- **A1–B2 递进练习**：每级 3 个核心包 + 3 个巩固包，共 24 包、96 道辨析 / 填空 / 纠错 / 阅读题、24 篇原创短阅读与 24 项个人表达任务。前置包最佳正确率至少 75% 后继续，保留错项、草稿与参考范文，逐步复用旧知识。
 - **一年 A1 → B1 计划**：52 周加第 365 天复盘；A1 12 周、A2 16 周、B1 20 周及综合复盘 4 周，配套已有课程与表达任务，每周听说读写自检。
 
 - **资料库**：16 个已在线核验的 Cervantes、欧洲委员会、RAE / ASALE 官方参考页面；按类型筛选，课程保留具体章节；另有 3 个可追溯的开源词库来源。
@@ -42,7 +42,7 @@
 
 这批名词复用原有 80 词的基础词义与词性核对记录；新增词形、搭配和练习由人工按既有规则编写，待专业教师审稿，详见 [首批名词范围](docs/NOUN_PRACTICE.md)。三步练习仅核对指定答案，独立于词汇掌握、课程解锁与每日打卡；6500 个词元及其审核状态保持原范围。
 
-在首页或语法路线打开“A1 → B2 递进练习”。A1 先练身份 / 位置 / 存在、现在时与喜好；A2 接着练过去活动、购物请求与计划；B1 增加背景叙述、建议与观点；B2 再练让步、假设与转述。每包先读规则和小段落，完成四题后保存结果，再写自己的表达、对照量规修改；保存非空草稿后才能查看参考范文。各级内容可预览，练习按这条补充路线的实际作答顺序开放，与 32 单元主课程的词汇 / 语法解锁独立。
+在首页或语法路线打开“A1 → B2 递进练习”。A1 先练身份 / 位置 / 存在、现在时与喜好；A2 接着练过去活动、购物请求与计划；B1 增加背景叙述、建议与观点；B2 再练让步、假设与转述。每包先读规则和小段落，完成四题后保存结果，再写自己的表达、对照量规修改；保存非空草稿后才能查看参考范文。各级内容可预览，练习按核心与巩固分支的实际前置关系开放，与 32 单元主课程的词汇 / 语法解锁独立。
 
 四题检查指定词形与受控改写；个人表达只保存草稿、提供自查问题，不自动评分。75% 是继续练习的门槛，不是 CEFR 能力证明；新增材料待教师审稿，当前未补入真人听力或口语评估。详细顺序见 [递进练习说明](docs/PROGRESSIVE_PRACTICE.md)。
 

diff --git a/docs/DEVELOPMENT.md b/docs/DEVELOPMENT.md
@@ -71,9 +71,9 @@ Node 测试中用模拟 `wx` 对象验证页面控制逻辑，不等同于微信
 
 ## A1–B2 递进练习
 
-`data/drills.js` 提供 12 个稳定 ID 学习包，每级 3 包。每包包括前置包 ID、所用课程 ID、复用词、中文规则、例句、短文及词语提示、四种题型和个人表达量规；引用从对应课程继承，不新增来源核验结论。新增材料为原创，待教师审稿。
+`data/drills.js` 与 `data/drill-extension.js` 提供 24 个稳定 ID 学习包，每级 3 个核心 + 3 个巩固包。每包包括前置包 ID、所用课程 ID、复用词、中文规则、例句、短文及词语提示、四种题型和个人表达量规；引用从对应课程继承，不新增来源核验结论。新增材料为原创，待教师审稿。
 
-`lib/drills.js` 根据所有前置包的历史最佳分推导开放状态；后续内容可预览，直接评分或保存后续草稿被拒绝。四题完整校验后更新最佳分与错项，不允许稀疏或缺题答案。正确率仅检查公开允许的词形与受控改写，支持 NFC、大小写、连续空格、开头问号 / 感叹号与句末标点，保留重音和 ñ。假设包显式接受 tuviera / tuviese 两种形式。
+`lib/drills.js` 沿显式 previousId 关系回溯历史最佳分推导开放状态，并拒绝循环或缺失前置；原核心链保持不变；后续内容可预览，直接评分或保存后续草稿被拒绝。四题完整校验后更新最佳分与错项，不允许稀疏或缺题答案。正确率仅检查公开允许的词形与受控改写，支持 NFC、大小写、连续空格、开头问号 / 感叹号与句末标点，保留重音和 ñ。假设包显式接受 tuviera / tuviese 两种形式。
 
 原生 `pages/drills/index` 和浏览器 `#drills` / `#drill/a1-place` 共享引擎。草稿与四题结果分开保存；保存非空且未改动的草稿后才能对照范文，修改后需再次保存。保存失败保留当前答案或未保存草稿，重复点击结果提交不增加次数。中途题目保存在页面内存，离开后重开；草稿需要点击保存。
 
